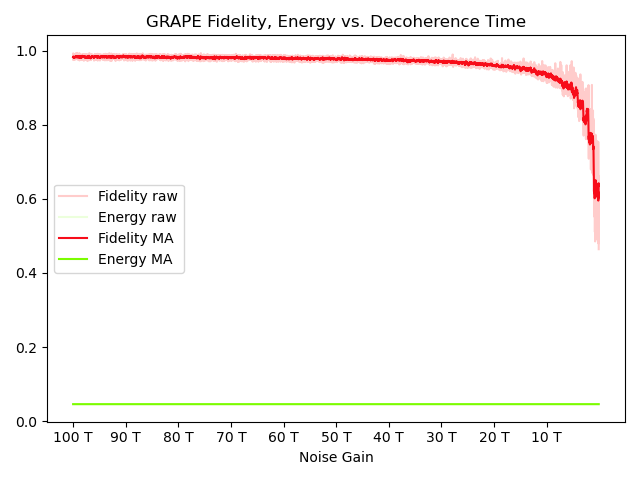
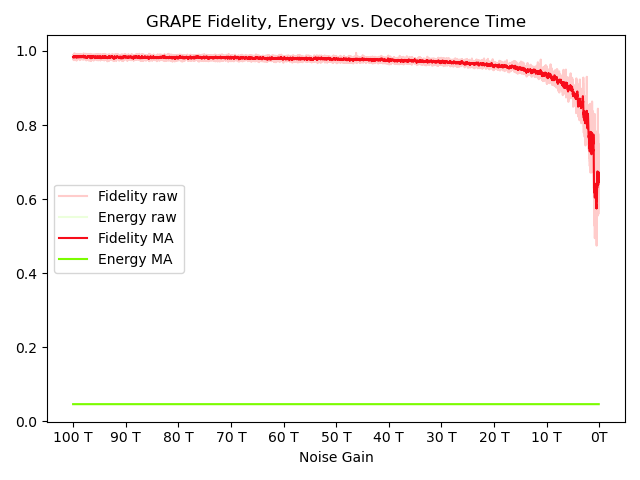
Experiments

diff --git a/Simulation/experiments.py b/Simulation/experiments.py
@@ -22,8 +22,8 @@ def moving_average(a, n = 10):
 
 # Plot Standard GRAPE Pulses Fidelity & Energy as function of Noise
 def grape_simulation():
-    GRAPEEnvironment = QuantumEnvironment(number_qubits, h_d, h_c_3, h_l_3, t1, t2, target_unitary_cnot, 0.7, 0.3, number_of_timesteps, gate_duration, number_of_grape_iterations, n_cycles)
-    GRAPEEnvironment.initial_state = basis(4, 2)
+    GRAPEEnvironment = QuantumEnvironment(number_qubits, h_d, h_c_3, h_l_3, t1, t2, target_unitary_cnot, 0.8, 0.2, number_of_timesteps, gate_duration, number_of_grape_iterations, n_cycles)
+    GRAPEEnvironment.initial_state = rand_ket(4)
 
     pulses = GRAPEEnvironment.run_grape_optimization(0.7, 0.3, epsilon_f, epsilon_e)
 
@@ -31,12 +31,12 @@ def grape_simulation():
     energy_list = []
 
     for index, value in enumerate(noise):
-        print(index)
         if (index % 100 == 0):
-            GRAPEEnvironment = QuantumEnvironment(number_qubits, h_d, h_c_3, h_l_3, value, value, target_unitary_cnot, 0.7, 0.3, number_of_timesteps, gate_duration, number_of_grape_iterations, n_cycles)
+            GRAPEEnvironment = QuantumEnvironment(number_qubits, h_d, h_c_3, h_l_3, value, value, target_unitary_cnot, 0.8, 0.2, number_of_timesteps, gate_duration, number_of_grape_iterations, n_cycles)
         new_state = rand_ket(4)
         GRAPEEnvironment.initial_state = new_state
         _, fid = GRAPEEnvironment.calculate_fidelity_reward(pulses)
+        print(index)
         energy = GRAPEEnvironment.calculate_energetic_cost(pulses)
         fidelity_list.append(fid)
         energy_list.append(energy)
@@ -54,7 +54,7 @@ def grape_simulation():
     plt.plot(ma_iteration_space, ma_fid_list, label = "Fidelity MA", color = '#F70D1A')
     plt.plot(ma_iteration_space, ma_energy_list, label = "Energy MA", color = '#7CFC00')
     plt.xticks([0, 1000, 2000, 3000, 4000, 5000, 6000, 7000, 8000, 9000, 10000], ['100 T', '90 T', '80 T', '70 T', '60 T', '50 T', '40 T', '30 T', '20 T', '10 T', '0T'])
-    plt.xlabel("Noise Gain")
+    plt.xlabel("Decoherence time")
     plt.legend()
     plt.title("GRAPE Fidelity, Energy vs. Decoherence Time")
     plt.tight_layout()
@@ -62,19 +62,19 @@ def grape_simulation():
 
 # Plot RL Agent Pulses Fidelity & Energy as function of Noise WITHOUT GRAPE Head Start
 def rl_simulation():
-    TrainingEnvironment = QuantumEnvironment(number_qubits, h_d, h_c_3, h_l_3, t1, t2, target_unitary_random, 1, 0, number_of_timesteps, gate_duration, number_of_grape_iterations, n_cycles, sweep_noise = True)
-    EvaluationEnvironment = QuantumEnvironment(number_qubits, h_d, h_c_3, h_l_3, t1, t2, target_unitary_random, 1, 0, number_of_timesteps, gate_duration, number_of_grape_iterations, n_cycles, sweep_noise = True)
+    TrainingEnvironment = QuantumEnvironment(number_qubits, h_d, h_c, h_l, t1, t2, target_unitary_cnot, 0.7, 0.3, number_of_timesteps, gate_duration, number_of_grape_iterations, n_cycles, sweep_noise = True)
+    EvaluationEnvironment = QuantumEnvironment(number_qubits, h_d, h_c, h_l, t1, t2, target_unitary_cnot, 0.7, 0.3, number_of_timesteps, gate_duration, number_of_grape_iterations, n_cycles, sweep_noise = True)
     
-    TrainingEnvironmentGRAPE = GRAPEApproximation(number_qubits, h_d, h_c_3, h_l_3, target_unitary_random, w_f = 1, w_e = 0, timesteps = number_of_timesteps, grape_iterations = number_of_grape_iterations)
-    EvaluationEnvironmentGRAPE = GRAPEApproximation(number_qubits, h_d, h_c_3, h_l_3, target_unitary_random, w_f = 1, w_e = 0, timesteps = number_of_timesteps, grape_iterations = number_of_grape_iterations)
+    TrainingEnvironmentGRAPE = GRAPEApproximation(number_qubits, h_d, h_c, h_l, target_unitary_cnot, w_f = 0.7, w_e = 0.3, timesteps = number_of_timesteps, grape_iterations = number_of_grape_iterations)
+    EvaluationEnvironmentGRAPE = GRAPEApproximation(number_qubits, h_d, h_c, h_l, target_unitary_cnot, w_f = 0.7, w_e = 0.3, timesteps = number_of_timesteps, grape_iterations = number_of_grape_iterations)
     
     ApproximationAgent = GRAPEQRLAgent(TrainingEnvironmentGRAPE, EvaluationEnvironmentGRAPE, num_iterations_Approx, fc_layer_params = (100, 100, 100), replay_buffer_capacity = 100)
     ApproximationAgent.run_training()
     ApproximationAgent.save_weights('Test_Policy_Approx')
 
-    RLAgent = QuantumRLAgent(TrainingEnvironment, EvaluationEnvironment, num_iterations_RL, w_f = 1, w_e = 0, fc_layer_params = (200, 100, 50, 30, 10), replay_buffer_capacity = 10, policy = 'Test_Policy_Approx', rand_initial_state = True, sweep_noise = True)
+    RLAgent = QuantumRLAgent(TrainingEnvironment, EvaluationEnvironment, num_iterations_RL, w_f = 0.7, w_e = 0.3, fc_layer_params = (200, 100, 50, 30, 10), replay_buffer_capacity = 10, policy = None, rand_initial_state = True, sweep_noise = True)
     RLAgent.run_training()
     RLAgent.save_weights('Test_Policy_RL_Sweep_Noise')
     RLAgent.plot_fidelity_energy_reward_per_iteration()
 
-grape_simulation()
+rl_simulation()

diff --git a/Simulation/qrla.py b/Simulation/qrla.py
@@ -243,19 +243,21 @@ class QuantumRLAgent:
 
         self.iteration_space = np.linspace(1, self.num_cycles * self.num_iterations, self.num_cycles * self.num_iterations)
         fig, ax1 = plt.subplots()
-
         ma_fid = self.moving_average(self.env_eval_py.fidelity_list)
         ma_energy = self.moving_average(self.env_eval_py.energy_list)
-        ma_reward = self.moving_average(self.env_eval_py.reward_list)
         ma_iteration_space = np.arange(len(ma_fid))
-
-        ax1.axhline(y = 0, color = "grey")
+        np.save('RL_Fidelity_Noise_RAW', self.env_eval_py.fidelity_list)
+        np.save('RL_Energy_Noise_RAW', self.env_eval_py.energy_list)
+        np.save('RL_Fidelity_List_MA', ma_fid)
+        np.save('RL_Energy_List_MA', ma_energy)
+        ax2 = ax1.twiny()
+        ax2.axhline(y = 0, color = "grey")
+        ax2.set_xticks([0, 1000, 2000, 3000, 4000, 5000, 6000, 7000, 8000, 9000, 10000], ['100 T', '90 T', '80 T', '70 T', '60 T', '50 T', '40 T', '30 T', '20 T', '10 T', '0T'])
+        ax2.set_xlabel("Decoherence Time (T1, T2)")
         ax1.plot(ma_iteration_space, self.env_eval_py.fidelity_list[:len(ma_fid)], color = '#FFCCCB')
         ax1.plot(ma_iteration_space, self.env_eval_py.energy_list[:len(ma_fid)], color = '#ECFFDC')
-        ax1.plot(ma_iteration_space, self.env_eval_py.reward_list[:len(ma_fid)], color = '#D6FFFF')
         ax1.plot(ma_iteration_space, ma_fid, label = "Fidelity", color = '#F70D1A')
         ax1.plot(ma_iteration_space, ma_energy, label = "Energy", color = '#7CFC00')
-        ax1.plot(ma_iteration_space, ma_reward, label = "Reward", color = '#1F51FF')
         ax1.set_ylim(0.0, 1.0)
         ax1.set_xlabel("Episode number")
         ax1.legend(loc = 'upper right')
@@ -338,7 +340,7 @@ class QuantumRLAgent:
         my_weights = PolicySaver(self.collect_policy)
         my_weights.save(directory)
 
-    def moving_average(self, a, n = 1000):
+    def moving_average(self, a, n = 100):
 
         ret = np.cumsum(a)
         ret[n:] = ret[n:] - ret[:-n]

diff --git a/Simulation/simulator.py b/Simulation/simulator.py
@@ -97,12 +97,12 @@ class QuantumEnvironment(py_environment.PyEnvironment):
 
         self.environment = Processor(N = self.n_q)
 
+        self.environment.add_drift(self.h_drift, targets = targets)
+
         if self.sweep_noise == False:
             self.noise = [self.t_1, self.t_2]
             noise = RelaxationNoise(t1 = self.t_1, t2 = self.t_2)
             self.environment.add_noise(noise = noise)
-
-        self.environment.add_drift(self.h_drift, targets = targets)
 
         for operator in self.h_control:
             self.environment.add_control(operator, targets = targets)
@@ -169,6 +169,7 @@ class QuantumEnvironment(py_environment.PyEnvironment):
         if self.current_step < self.n_steps:
             
             next_state, fidelity = self.calculate_fidelity_reward(action_2d)
+            
             energy = self.calculate_energetic_cost(action_2d)
             self.fidelity_list.append(fidelity)
             self.energy_list.append(energy)
@@ -182,6 +183,7 @@ class QuantumEnvironment(py_environment.PyEnvironment):
                 terminal = True
 
         else:
+            
             terminal = True
             reward = 0
             next_state = 0
@@ -241,9 +243,9 @@ class QuantumEnvironment(py_environment.PyEnvironment):
 
         for i in range(len(pulses[:, 0])):
             self.environment.pulses[i].coeff = pulses[i]
-        
+
         result = self.environment.run_state(init_state = self.initial_state)
-        
+    
         dm_sim = result.states[-1]
 
         dm_sim_np = fc.convert_qutip_to_numpy(dm_sim)

diff --git a/Simulation/input.py b/Simulation/input.py
@@ -13,7 +13,7 @@ number_qubits = 2
 gate_duration = 2 * np.pi
 t1 = 100 * gate_duration
 t2 = 100 * gate_duration
-number_of_timesteps = 100
+number_of_timesteps = 10
 number_of_grape_iterations = 500
 initial_state = basis(4, 2)
 initial_state_random = rand_ket(4)
